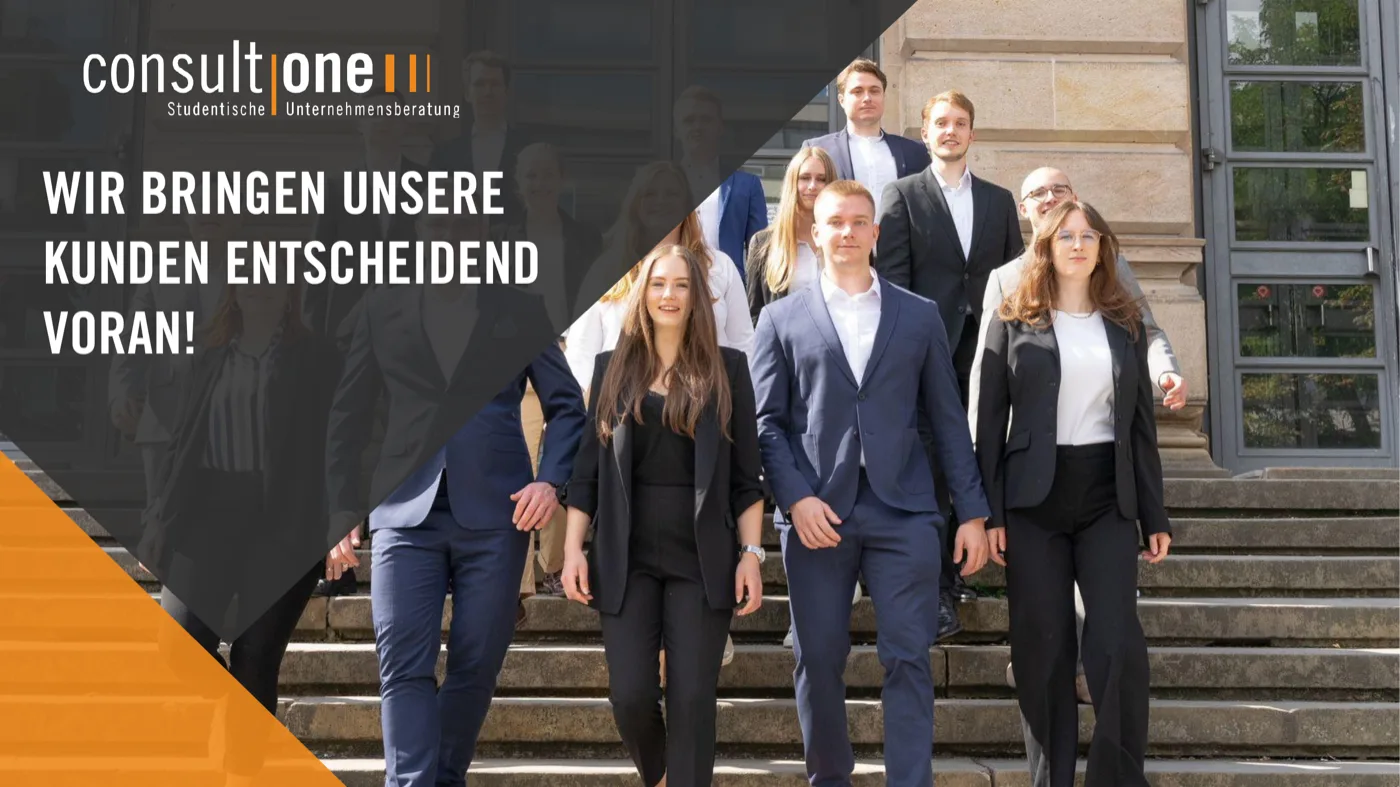
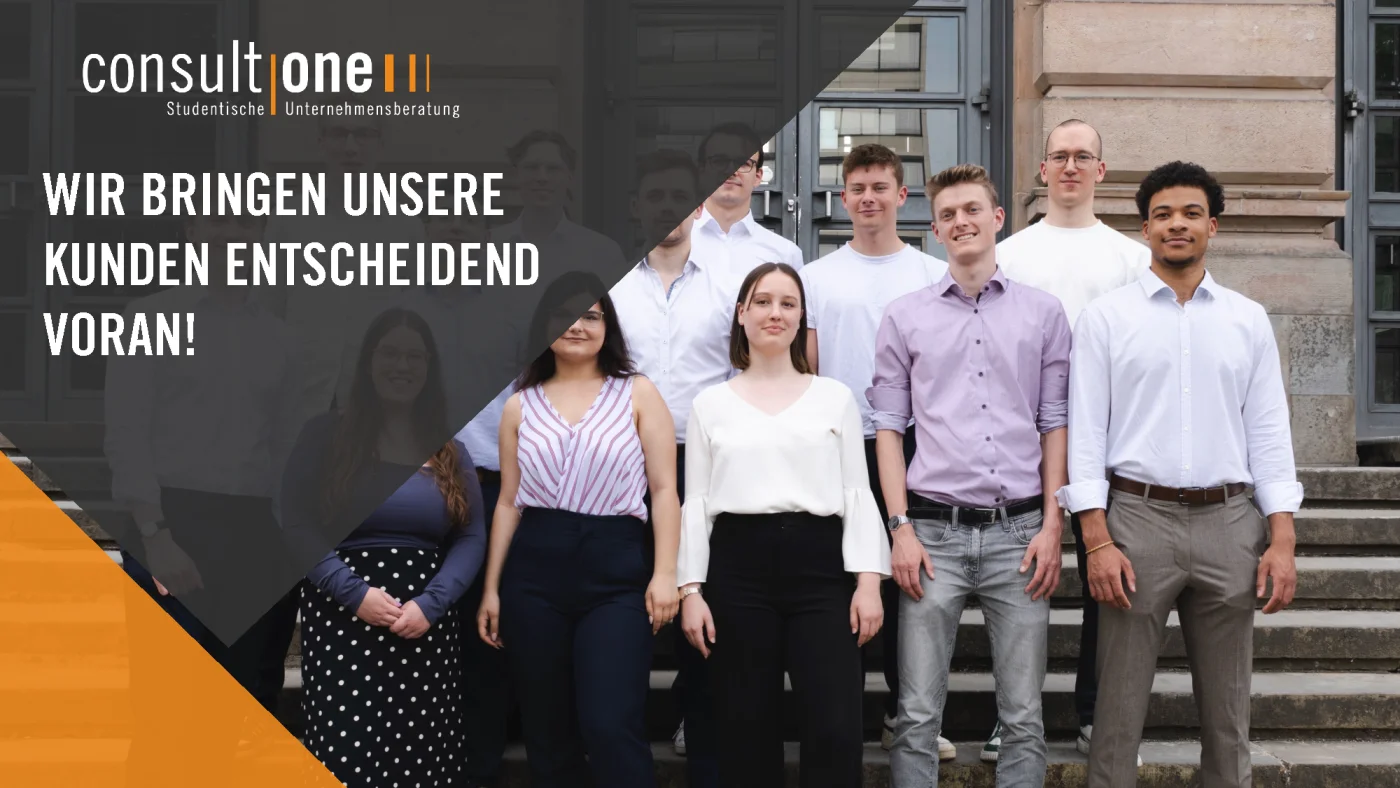
Broschüren-Vorschaubild und Seiten-/Größenangabe an die neue Fassung angepasst

diff --git a/leistungen.html b/leistungen.html
@@ -241,13 +241,13 @@
   <div class="container">
     <div class="wir-grid">
       <div>
-        <img src="Bilder/Sonstige/broschuere-cover.webp" width="1400" height="787" alt="Titelseite der Consult One Unternehmensbroschüre" class="section-img" loading="lazy">
+        <img src="Bilder/Sonstige/broschuere-cover.webp" width="1400" height="788" alt="Titelseite der Consult One Unternehmensbroschüre" class="section-img" loading="lazy">
       </div>
       <div>
         <h2 class="heading-bar">Unsere Broschüre</h2>
         <br>
         <a href="Dokumente/Consult-One-Broschuere.pdf" download class="btn btn--primary">Broschüre herunterladen</a>
-        <span class="brochure-meta">PDF, 11 Seiten, 2,7 MB</span>
+        <span class="brochure-meta">PDF, 10 Seiten, 10,8 MB</span>
       </div>
     </div>
   </div>
